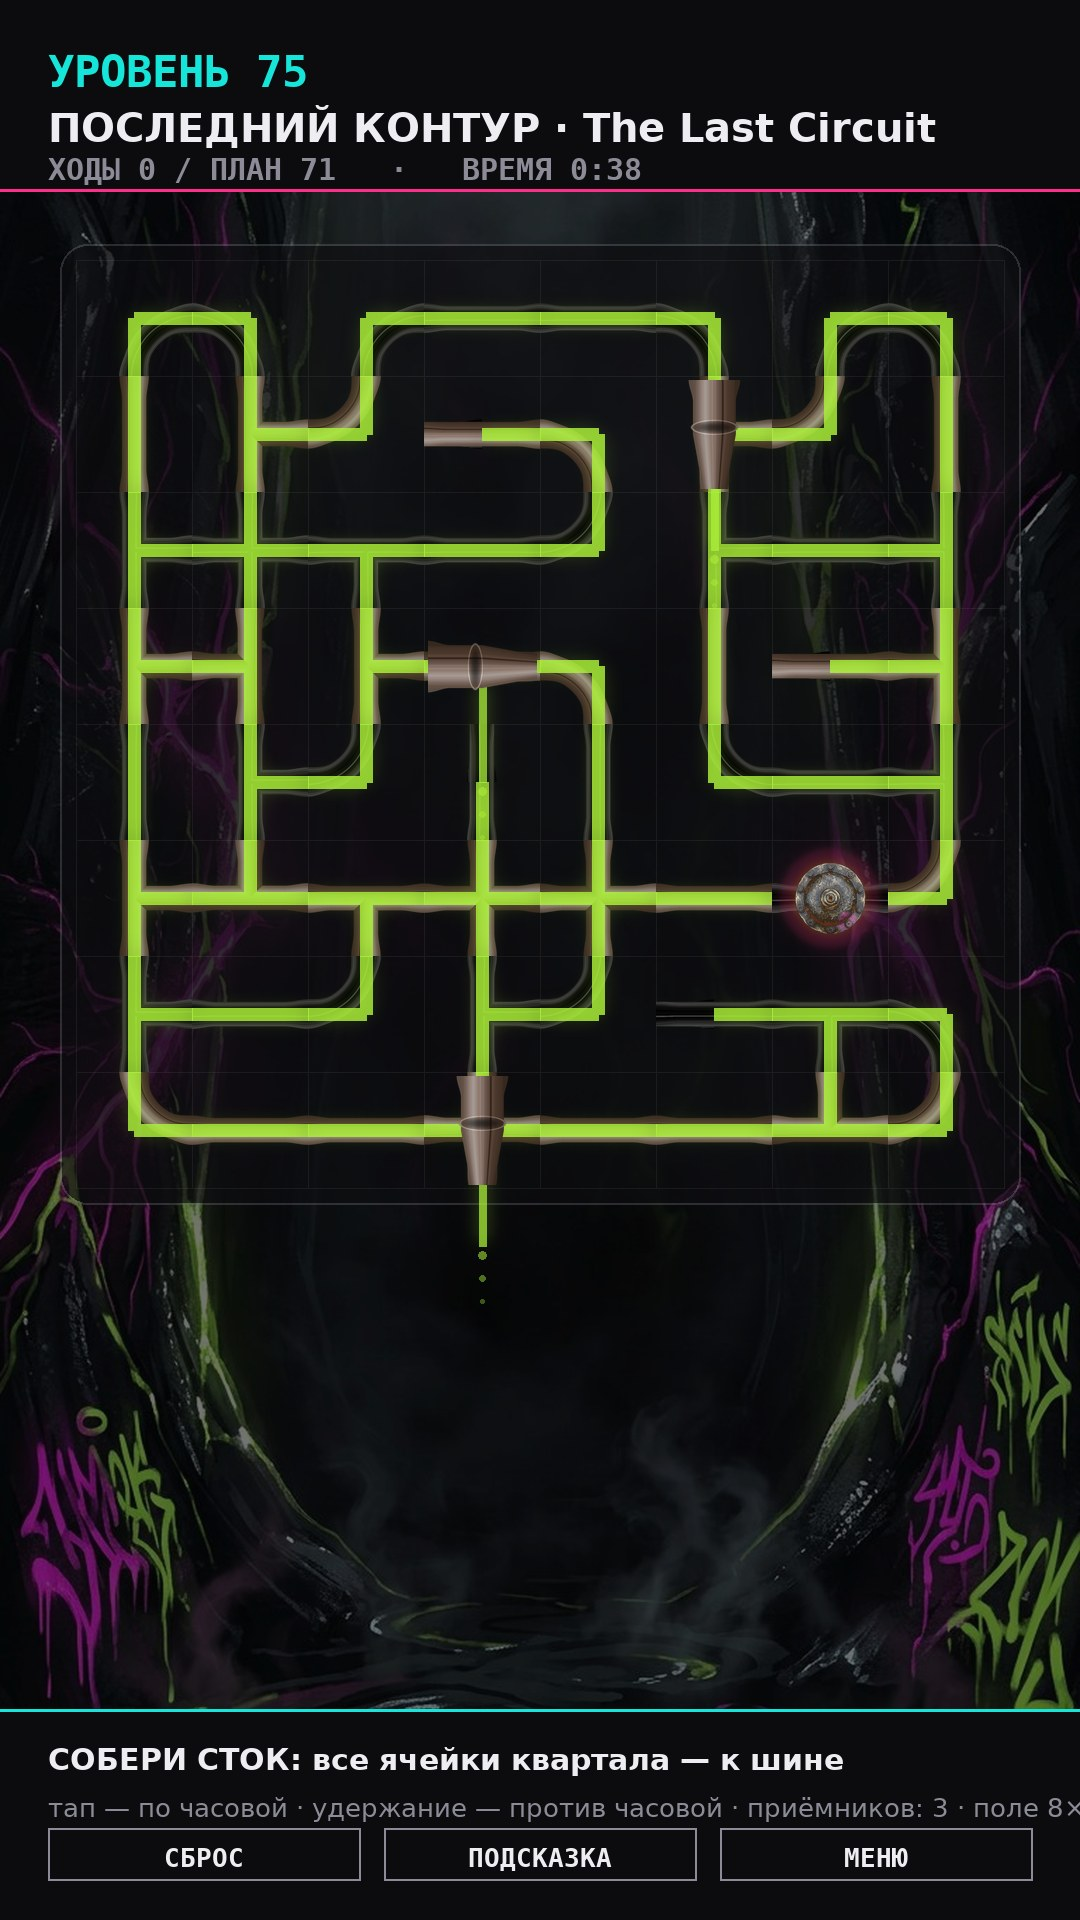
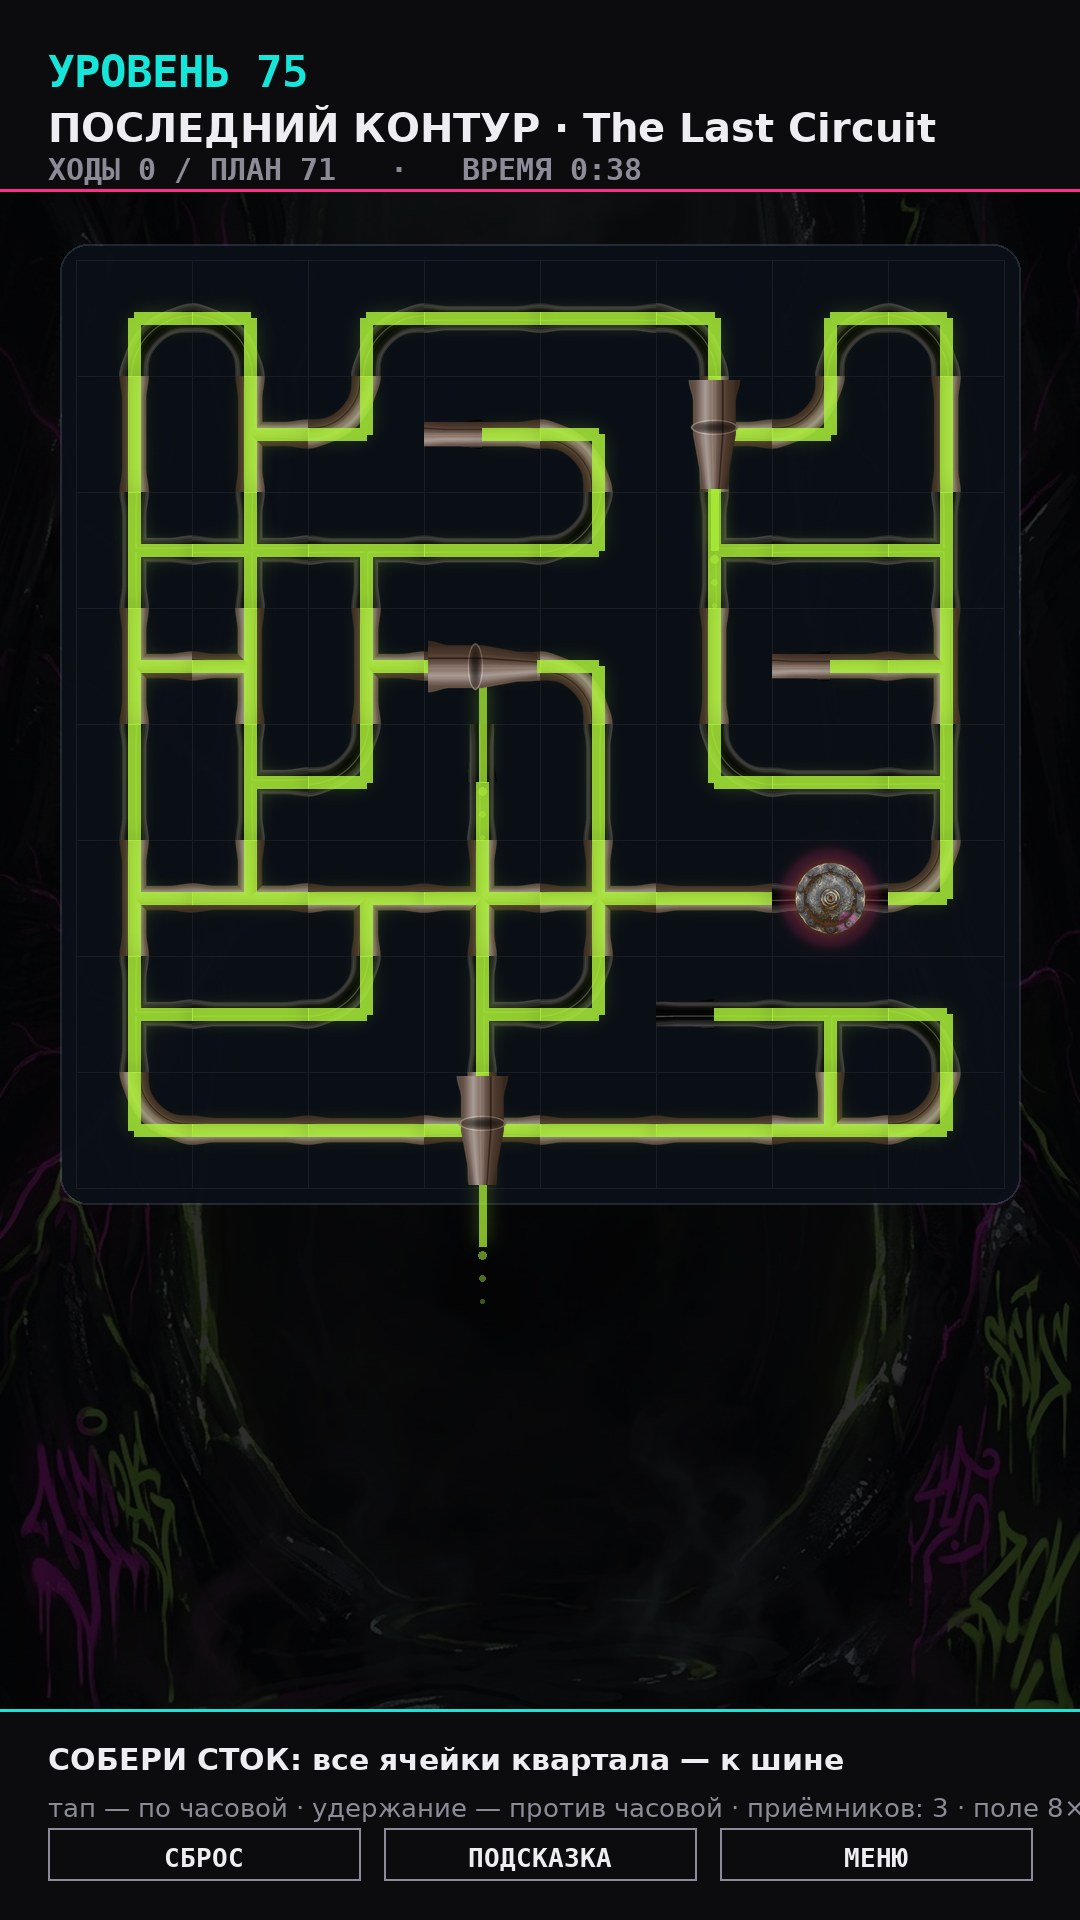
Амперград: фон уходит на задний план, поле становится однотонным
На кадре яруса (граффити, бетон, метки) контур трубы читался хуже, чем
сам кадр: играть было тяжело. Теперь кадр почти погашен и живёт за краем
поля как атмосфера квартала, а под трубы положена однотонная плита.

- веб: фон рисуется с alpha 0.22 по базе #06080E, плита #0B1018 с кромкой
  под сетку; в режиме схемы (арт выключен) оставлен прежний градиент;
- Android: кадр яруса рисуется с alpha 0.28, плита — цвет темы квартала
  с alpha 0.95 (тема из гардероба по-прежнему видна поверх арта);
- макеты art/preview пересобраны в том же виде: фон гасится сильнее,
  плита почти непрозрачная.

diff --git a/packages/lab/src/main.ts b/packages/lab/src/main.ts
@@ -200,12 +200,26 @@ function sealFile(key: string): string | undefined {
  * портретом 720×1290, и на широком окне честный cover растягивал бы его вдвое —
  * поле превращалось в размытый фрагмент граффити. Поэтому увеличивать можно не
  * больше MAX_BG_ZOOM, дальше фон просто обрамляем цветом (letterbox).
+ *
+ * Сам не заливает холст: подложку кладёт вызывающий, чтобы цвет поля и
+ * прозрачность атмосферы задавались в одном месте.
  */
 const MAX_BG_ZOOM = 1.25;
 
+/**
+ * Кадр яруса (граффити на бетоне) уходит на задний план: это атмосфера, а не
+ * поверхность, по которой ведут трубы. На нём метки и подписи читаются лучше,
+ * чем контур трубы, — играть было тяжело. Поэтому фон гасим почти полностью,
+ * а под поле кладём однотонную плиту.
+ */
+const BG_AMBIENCE = 0.22;
+/** Плита поля: ровный тёмный лист. Трубы и ток читаются на любом ярусе. */
+const FIELD_PLATE = '#0B1018';
+/** Кромка плиты: обозначает границу квартала, не спорит с трубами. */
+const FIELD_EDGE = 'rgba(126,156,196,0.14)';
+const FIELD_BASE = '#06080E';
+
 function drawCover(img: HTMLImageElement, rect: DOMRect) {
-  ctx.fillStyle = '#04060b';
-  ctx.fillRect(0, 0, rect.width, rect.height);
   const cover = Math.max(rect.width / img.naturalWidth, rect.height / img.naturalHeight);
   const scale = Math.min(cover, MAX_BG_ZOOM);
   const w = img.naturalWidth * scale;
@@ -575,14 +589,19 @@ function draw(now: number) {
   const artMode = artReady();
   const flow = artMode ? tier.flow : '#00e5c7';
 
-  // Фон: кадр яруса из арта, иначе — прежний градиент.
+  // Фон: кадр яруса — на заднем плане, почти погашенный. Его дело — атмосфера
+  // квартала, а не подложка под трубами: на граффити контур трубы не читался.
   const bgFile = tier.bg.length ? tier.bg[(levelIndex - 1) % tier.bg.length] : undefined;
   const bgImg = artMode ? art.get(bgFile) : null;
+  ctx.fillStyle = FIELD_BASE;
+  ctx.fillRect(0, 0, rect.width, rect.height);
   if (bgImg) {
+    ctx.save();
+    ctx.globalAlpha = BG_AMBIENCE;
     drawCover(bgImg, rect);
-    ctx.fillStyle = 'rgba(4,6,11,0.52)'; // притеняем: трубы и ток должны читаться
-    ctx.fillRect(0, 0, rect.width, rect.height);
+    ctx.restore();
   } else {
+    // Арт выключен — держим прежний градиент, чтобы схема не выглядела пустой.
     const bg = ctx.createLinearGradient(0, 0, 0, rect.height);
     bg.addColorStop(0, '#070b13');
     bg.addColorStop(1, '#04060b');
@@ -596,9 +615,20 @@ function draw(now: number) {
   const powered = session.finishedAt ? level.tiles.map(() => true) : poweredCells(level);
   const solvedT = session.solvedAt ? Math.min(1, (now - session.solvedAt) / 800) : 0;
 
+  // Плита квартала: однотонный лист под трубы. Сверху только сетка и детали.
+  const plate = cell * 0.16;
+  ctx.save();
+  ctx.fillStyle = FIELD_PLATE;
+  roundRect(ctx, ox - plate / 2, oy - plate / 2, size * cell + plate, size * cell + plate, plate);
+  ctx.fill();
+  ctx.strokeStyle = FIELD_EDGE;
+  ctx.lineWidth = 1;
+  ctx.stroke();
+  ctx.restore();
+
   // Сетка-подложка: в арт-режиме деликатнее — трубы сами читаются как поле.
   ctx.save();
-  ctx.strokeStyle = artMode ? 'rgba(190,210,235,0.055)' : 'rgba(90,120,160,0.10)';
+  ctx.strokeStyle = artMode ? 'rgba(190,210,235,0.10)' : 'rgba(90,120,160,0.12)';
   ctx.lineWidth = 1;
   for (let i = 0; i <= size; i++) {
     ctx.beginPath();

diff --git a/app-android/app/src/main/java/com/ampergrad/game/ui/Board.kt b/app-android/app/src/main/java/com/ampergrad/game/ui/Board.kt
@@ -274,9 +274,18 @@ private fun DrawScope.drawReceiver(cx: Float, cy: Float, cell: Float, on: Boolea
 }
 
 /**
- * Фон яруса под полем: растягиваем по ширине, центрируем и гасим затемнением —
- * иначе трубы теряются на светлых участках кадра.
+ * Кадр яруса почти погашен: это атмосфера квартала, а не поверхность, по которой
+ * ведут трубы. На граффити метки читаются лучше, чем контур трубы, — играть было
+ * тяжело. Дальше поле накрыто однотонной плитой, и фон остаётся за её краем.
  */
+private const val BG_AMBIENCE = 0.28f
+
+/** Плита поля: ровный тёмный лист — трубы и ток читаются на любом ярусе. */
+private const val PLATE_ALPHA = 0.95f
+
+/** Кромка плиты: обозначает границу квартала, не споря с трубами. */
+private val PLATE_EDGE = Color(0x247E9CC4)
+
 private fun DrawScope.drawArtBackground(
     image: ImageBitmap?,
     board: Float,
@@ -298,16 +307,24 @@ private fun DrawScope.drawArtBackground(
             srcSize = IntSize(image.width, image.height),
             dstOffset = IntOffset(((area.width - w) / 2f).toInt(), (top + (height - h) / 2f).toInt()),
             dstSize = IntSize(w.toInt(), h.toInt()),
+            alpha = BG_AMBIENCE,
         )
     }
-    // Плита гасит фон под трубами, а заодно несёт купленную тему квартала:
-    // иначе «тема поля» была бы видна только в схеме.
+    // Плита: почти непрозрачная, поэтому поле однотонное. Одновременно несёт
+    // купленную тему квартала — иначе «тема поля» была бы видна только в схеме.
     val plate = cell * 0.16f
     drawRoundRect(
-        color = tint.copy(alpha = 0.10f),
+        color = tint.copy(alpha = PLATE_ALPHA),
         topLeft = Offset(ox - plate / 2f, top),
         size = Size(board + plate, height),
         cornerRadius = CornerRadius(plate),
+    )
+    drawRoundRect(
+        color = PLATE_EDGE,
+        topLeft = Offset(ox - plate / 2f, top),
+        size = Size(board + plate, height),
+        cornerRadius = CornerRadius(plate),
+        style = Stroke(width = 1f),
     )
 }
 

diff --git a/art/tools/mock_board.py b/art/tools/mock_board.py
@@ -183,7 +183,12 @@ def level_of(number):
 
 
 def make_background(path, size):
-    """Фон яруса: кадр заполняет холст, притемняется, чтобы трубы читались."""
+    """Фон яруса: атмосфера на заднем плане.
+
+    Кадр почти погашен — как в игре: граффити задаёт настроение квартала, но не
+    служит подложкой под трубы (на нём контур трубы не читается). Поверх макет
+    кладёт однотонную плиту поля, поэтому здесь фон можно гасить смело.
+    """
     width, height = size
     bg = Image.open(path).convert("RGB")
     scale = max(width / bg.width, height / bg.height)
@@ -192,7 +197,7 @@ def make_background(path, size):
     top = (bg.height - height) // 2
     bg = bg.crop((left, top, left + width, top + height))
     dark = Image.new("RGB", (width, height), (0, 0, 0))
-    bg = Image.blend(bg, dark, 0.42)
+    bg = Image.blend(bg, dark, 0.78)
     # Общая цветокоррекция в сторону асфальта: чуть приглушаем и добавляем холода.
     tint = Image.new("RGB", (width, height), ASPHALT)
     bg = Image.blend(bg, tint, 0.18)
@@ -354,8 +359,9 @@ def render_level(shot, sprites, size=(1080, 1920)):
     pd.rounded_rectangle(
         [bx - 16, by - 16, bx + board_side + 16, by + board_side + 16],
         radius=28,
-        fill=(14, 14, 17, 170),
-        outline=(120, 120, 132, 90),
+        # Плита почти непрозрачная: поле однотонное, как в игре.
+        fill=(11, 16, 24, 244),
+        outline=(126, 156, 196, 60),
         width=2,
     )
     img.alpha_composite(plate)
